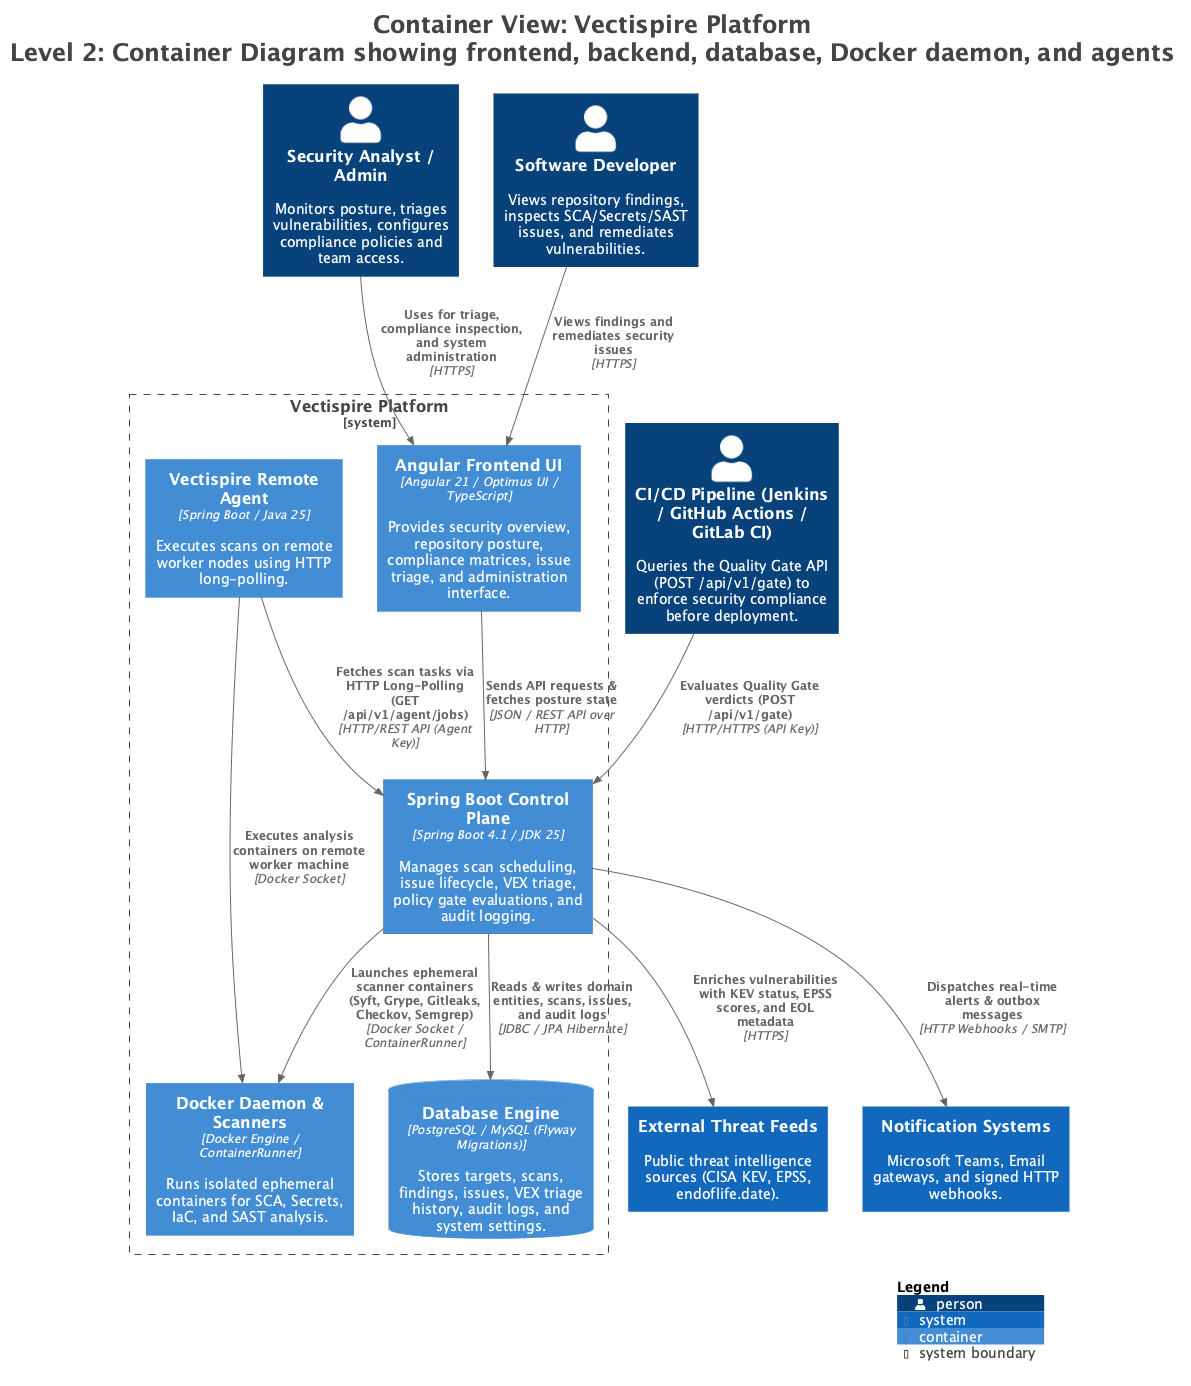
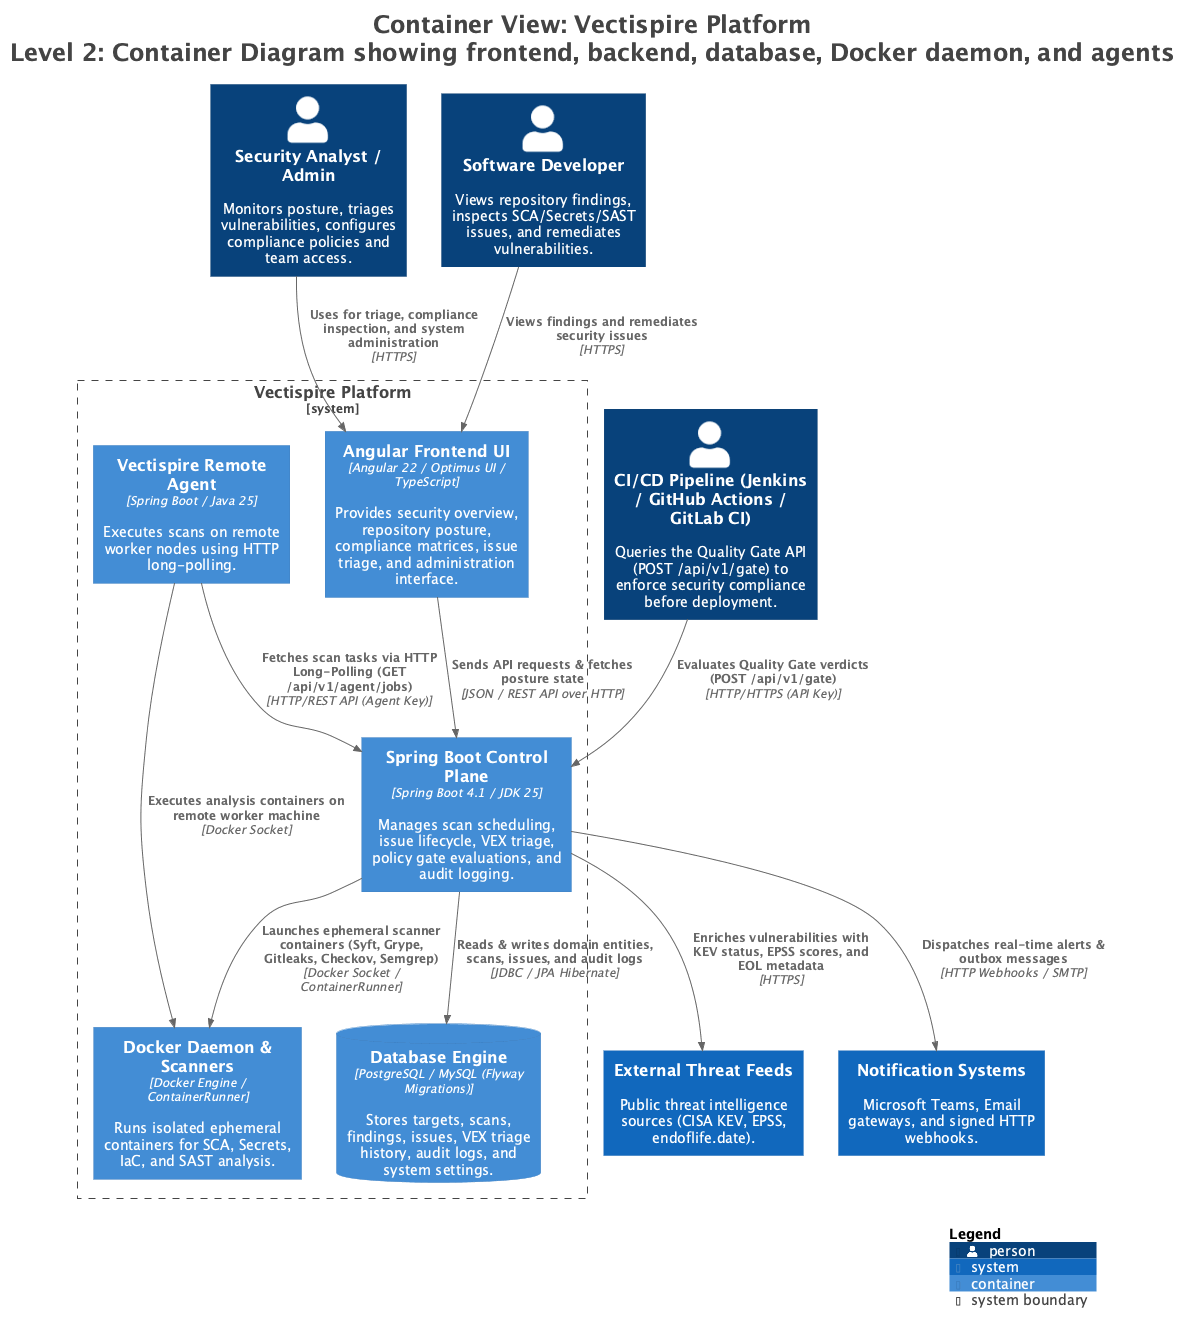
docs: the front end is on Angular 22, TypeScript 6.0 and Optimus UI 2
Every "Angular 21" outside docs/analysis/ (dated audits, which describe
what was true when they were written), in both languages: AGENTS.md,
README.fr.md, PROMPT_AUDIT.md, the architecture views, the C4 model,
GETTING_STARTED.fr, the security review and the technical documentation.
The C4 diagrams were regenerated from the model; only the Containers view
carries the version, so the other two PNGs, which differed only by
renderer build, were left as they were.

vectispire-angular/README.md now says why the versions are what they
are: Optimus 2 and Angular 22 move as one, TypeScript is pinned to a
minor because Angular accepts exactly one, the openapi-typescript
override, the Eager pins, primeicons 8.0.1's licence read and refused,
and the new icon check.

dependabot.yml keeps refusing majors of Angular, TypeScript, vitest and
jsdom; its comment no longer presents Angular 22 as the pending move. It
now also holds TypeScript minors: Angular 22 accepts `>=6.0 <6.1`, so a
TypeScript 6.1 pull request could not build, which is the shape of the
TypeScript 7 one that failed.

Changed region(s): [[0.0, 0.0, 0.995, 0.8926], [0.7462, 0.9234, 0.9328, 0.985]]

diff --git a/PROMPT_AUDIT.md b/PROMPT_AUDIT.md
@@ -33,7 +33,7 @@ Effectue une analyse et un audit complet et approfondi du projet Vectispire en e
    - Portabilité et migration multi-SGBD Flyway sur 2 moteurs réels (PostgreSQL, MySQL (SQLite for tests)) avec validation de schéma stricte (ddl-auto: validate).
    - Moteur d'ingestion et déduplication multi-scanners avec IssueFingerprint. **Vérifier qu'un vecteur littéral est épinglé** : les propriétés relationnelles (déterminisme, version exclue, cibles séparées) survivent toutes à un réordonnancement des champs, qui change pourtant chaque empreinte du parc et perd tout le triage en silence. Établi le 26 août 2026 en permutant deux champs : aucun test n'a échoué.
    - Coût des lectures : chercher les points d'entrée HTTP qui chargent une table entière ou requêtent par élément (N+1). Mesurer avec les compteurs Hibernate (getEntityLoadCount, getQueryExecutionCount) plutôt que raisonner ; sept points d'entrée chargeaient t_finding en entier avant qu'on les compte.
-   - Frontend Angular 21 et couverture de tests end-to-end Playwright (vectispire-angular/e2e/).
+   - Frontend Angular 22 et couverture de tests end-to-end Playwright (vectispire-angular/e2e/).
 
 4. 📋 Conformité Réglementaire & Standards :
    - Conformité réglementaire : **un évaluateur de posture, six cartographies** — et la distinction est le fait à vérifier. ComplianceEngine commute sur sept catégories de contrôle (VULNERABILITY_MANAGEMENT, SUPPLY_CHAIN, SECRETS_MANAGEMENT, SECURE_CODING, INFRASTRUCTURE_AS_CODE, GOVERNANCE, AUDIT_AND_LOGGING) et projette ce verdict sur six référentiels : NIS_2, ISO_27001, EU_CRA, DORA, PCI_DSS, SOC_2 — soit 24 contrôles, dont deux partageant une catégorie reçoivent le même résultat. C'est ce qu'est une cartographie ; parler de « six moteurs » surévend autant que d'en annoncer quatre en sous-évend. L'OWASP Top 10 vit dans son propre contrôleur. Vérifier aussi cappedByPlatform : un contrôle ne doit jamais être déclaré conforme sur la foi d'un mécanisme éteint.
@@ -87,7 +87,7 @@ Perform a comprehensive, in-depth evaluation and security audit of the Vectispir
    - Multi-engine Flyway migrations verified on 2 databases (PostgreSQL, MySQL (SQLite for tests)) with strict validation (ddl-auto: validate).
    - Multi-scanner ingestion and deduplication via IssueFingerprint. **Check that a literal vector is pinned**: the relational properties (determinism, version excluded, targets separate) all survive a reordering of the fields, which nonetheless changes every fingerprint in the estate and loses all triage in silence. Established on 26 August 2026 by swapping two fields: no test failed.
    - Cost of reads: hunt for HTTP endpoints that load a whole table or query per item (N+1). Measure with the Hibernate counters (getEntityLoadCount, getQueryExecutionCount) rather than reasoning; seven endpoints were reading all of t_finding before anyone counted.
-   - Frontend Angular 21 and automated Playwright E2E test suites (vectispire-angular/e2e/).
+   - Frontend Angular 22 and automated Playwright E2E test suites (vectispire-angular/e2e/).
 
 4. 📋 Regulatory & Standards Compliance:
    - Regulatory compliance: **one posture evaluator, six mappings** — and the distinction is the fact to check. ComplianceEngine switches on seven control categories (VULNERABILITY_MANAGEMENT, SUPPLY_CHAIN, SECRETS_MANAGEMENT, SECURE_CODING, INFRASTRUCTURE_AS_CODE, GOVERNANCE, AUDIT_AND_LOGGING) and projects that verdict onto six frameworks: NIS_2, ISO_27001, EU_CRA, DORA, PCI_DSS, SOC_2 — 24 controls, of which any two sharing a category receive the same result. That is what a mapping is; calling it "six engines" oversells exactly as much as announcing four undersells. The OWASP Top 10 lives in its own controller. Check cappedByPlatform too: a control must never be reported compliant on the strength of a mechanism that is switched off.

diff --git a/vectispire-angular/README.md b/vectispire-angular/README.md
@@ -16,13 +16,26 @@ proxy. They only have to agree.
 
 ## The stack, and why
 
-**Angular 21.** Required by Optimus UI, whose peer dependencies are on `^21.0.0`.
+**Angular 22.** Required by Optimus UI 2, whose peer dependencies are on `^22.1.4`. The
+two move together: Optimus 1 declared Angular `^21`, and installing one major without the
+other leaves a second copy of `@angular/core` in the lockfile, which does not build.
+
+**TypeScript 6.0, not 7.** Angular 22 accepts `>=6.0 <6.1` and nothing else, so the range
+is `~6.0.x` and a TypeScript minor is as much a framework decision as a major. The root
+`package.json` carries an `overrides` entry for `openapi-typescript`, whose peer still says
+`^5.x`: without it npm hoists a TypeScript 5 to the root, and ESLint type-checks with a
+different compiler than the build.
+
+**Every component declares `ChangeDetectionStrategy.Eager`.** Angular 22 made OnPush the
+default; `ng update` pinned the existing components to the old behaviour rather than change
+it underneath them, and `eslint.config.js` says why the rule that would flag the pin is off.
+A new component should not copy the pin.
 
 **Optimus UI** (`@openng/optimus-ui`) rather than PrimeNG. PrimeTek archived the PrimeNG
 repository and moved v22 to a commercial license; Optimus is the community fork of v21,
-the last MIT release. The import subpaths are identical (`@openng/optimus-ui/table`
-where you would have written `primeng/table`), which makes the PrimeNG v21 documentation
-directly usable.
+the last MIT release, and its 2.x line is that fork on Angular 22. The import subpaths are
+identical (`@openng/optimus-ui/table` where you would have written `primeng/table`), which
+makes the PrimeNG v21 documentation directly usable.
 
 Two renames to know about, inherited from that fork:
 
@@ -45,7 +58,9 @@ Two things to know if you pull the template from source:
 
 **`primeicons` is pinned to `7.0.0`**, exactly. 8.0.0 followed PrimeNG under a
 proprietary license — which is precisely what moving to Optimus was meant to avoid. The
-constraint is a disguised `=`: do not loosen it without reading the license.
+constraint is a disguised `=`: do not loosen it without reading the license. It was read
+again for 8.0.1 during the Angular 22 move: the PrimeUI license, free only below a
+revenue and headcount threshold, with a license key and a ban on redistribution. Still no.
 
 ## Asset checking
 
@@ -67,6 +82,13 @@ would have shown a missing image forever. Only asset positions are examined: `sr
 `placeholder` is an example shown to the user, and an `<a href>` to an advisory is a
 navigation the CSP does not govern — refusing all of those would make this the rule someone
 switches off.
+
+**Every `pi-*` class must exist in the installed `primeicons.css`.** Same failure, different
+asset: an unknown icon class renders an empty box and reports nothing. `pi-balance-scale`,
+`pi-file-code`, `pi-gitlab` and `pi-terminal` exist in no primeicons release and had been
+blank on seven screens; they became `pi-building-columns`, `pi-file`, `pi-share-alt` and
+`pi-code`. The known set is read from the stylesheet, so an upgrade that drops an icon fails
+here too.
 
 ## Critical CSS inlining is off, and that is a security setting
 

diff --git a/AGENTS.md b/AGENTS.md
@@ -1,7 +1,7 @@
 # Agents
 
 Vectispire is a **Spring Boot 4 / JDK 25** control plane in [`vectispire-java/`](vectispire-java/) with an
-**Angular 21** interface in [`vectispire-angular/`](vectispire-angular/). They talk over HTTP and are
+**Angular 22** interface in [`vectispire-angular/`](vectispire-angular/). They talk over HTTP and are
 built by different toolchains: Gradle for the backend, npm for the frontend.
 
 Read [`vectispire-java/README.md`](vectispire-java/README.md) before working there. It carries the
@@ -13,7 +13,7 @@ rather than reproduced.
 | | |
 |---|---|
 | Backend | Spring Boot 4.1, JDK 25, Gradle, `vectispire-java/` — see [`vectispire-java/README.md`](vectispire-java/README.md) |
-| Frontend | Angular 21, Optimus UI, `vectispire-angular/` — see [`vectispire-angular/README.md`](vectispire-angular/README.md) |
+| Frontend | Angular 22, TypeScript 6.0, Optimus UI 2, `vectispire-angular/` — see [`vectispire-angular/README.md`](vectispire-angular/README.md) |
 | Database | MySQL (default), PostgreSQL — Flyway migrations (`db/migration/{vendor}`). SQLite is the test fixture, not a deployment ([0014](docs/architecture/en/decisions/0014-two-engines-and-a-test-fixture.md)) |
 | Node | pinned by `.nvmrc` to LTS 24; Angular refuses Node 25 |
 
@@ -31,7 +31,8 @@ npm test
 `docs.yml`, which builds the user guide on `develop` and pull requests and publishes it to
 GitHub Pages from `main`. [`.github/dependabot.yml`](.github/dependabot.yml) proposes weekly,
 grouped updates as pull requests against `develop` — never MkDocs 2, never Node 25, and no major of
-Angular, TypeScript, vitest or jsdom, which move together through `ng update`. Playwright comes in
+Angular, TypeScript, vitest or jsdom, which move together through `ng update` — nor a TypeScript
+minor, since Angular supports exactly one at a time. Playwright comes in
 a pull request of its own: the e2e image pinned in `ci.yml` and `nightly.yml` has to move with it. It is a
 rewrite of the GitLab pipeline rather than a translation, because the Docker-in-Docker
 workarounds invert when the daemon shares the runner's filesystem: `docker run -v "$PWD:…"`

diff --git a/docs/fr/TECHNICAL_DOCUMENTATION.fr.md b/docs/fr/TECHNICAL_DOCUMENTATION.fr.md
@@ -401,10 +401,10 @@ de base générique. Un service n'écrit aucun SQL, et un repository ne porte au
 
 ## 6. Le frontal
 
-Angular 21 avec [Optimus UI](https://github.com/openng/optimus-ui), le fork communautaire de
-PrimeNG v21 — PrimeTek a archivé PrimeNG et fait passer la v22 sous licence commerciale. La coque
-vient du gabarit Sakai (MIT). `primeicons` est épinglé exactement à `7.0.0` : la 8.0.0 a suivi
-PrimeNG sous licence propriétaire, ce que le passage à Optimus visait précisément à éviter. Voir
+Angular 22 et TypeScript 6.0 avec [Optimus UI](https://github.com/openng/optimus-ui) 2, le fork
+communautaire de PrimeNG v21 — PrimeTek a archivé PrimeNG et fait passer la v22 sous licence
+commerciale ; Optimus 2 est ce fork porté sur Angular 22. La coque vient du gabarit Sakai (MIT).
+`primeicons` est épinglé exactement à `7.0.0` : la 8.x a suivi PrimeNG sous licence propriétaire, ce que le passage à Optimus visait précisément à éviter. Voir
 [`vectispire-angular/README.md`](../../vectispire-angular/README.md).
 
 Les modèles de vue que le navigateur reçoit sont typés et calculés côté serveur
@@ -419,6 +419,10 @@ dans `index.html` et `styles.scss` et vérifie que les polices déclarées exist
 `woff2`. Pas du zèle : la CSP refuse les feuilles de style tierces, et une telle référence ne casse
 rien de visible — la requête est bloquée, la page se rabat sur la police système, et rien ne le
 signale. C'est exactement ainsi qu'une typographie n'a jamais atteint la production.
+
+Le même script échoue sur toute classe d'icône `pi-*` que le `primeicons.css` installé ne définit
+pas : une classe inconnue affiche une case vide sans rien signaler non plus, et quatre étaient
+livrées vides de cette façon.
 
 ## 7. Approche des tests
 

diff --git a/docs/en/TECHNICAL_DOCUMENTATION.md b/docs/en/TECHNICAL_DOCUMENTATION.md
@@ -395,11 +395,11 @@ A service writes no SQL, and a repository holds no business rule;
 
 ## 6. The front end
 
-Angular 21 with [Optimus UI](https://github.com/openng/optimus-ui), the community fork of
-PrimeNG v21 — PrimeTek archived PrimeNG and moved v22 to a commercial license. The shell
-comes from the Sakai template (MIT). `primeicons` is pinned to exactly `7.0.0`: 8.0.0
-followed PrimeNG under a proprietary license, which is what moving to Optimus was meant to
-avoid. See [`vectispire-angular/README.md`](../../vectispire-angular/README.md).
+Angular 22 and TypeScript 6.0 with [Optimus UI](https://github.com/openng/optimus-ui) 2, the
+community fork of PrimeNG v21 — PrimeTek archived PrimeNG and moved v22 to a commercial
+license; Optimus 2 is that fork carried to Angular 22. The shell comes from the Sakai template
+(MIT). `primeicons` is pinned to exactly `7.0.0`: 8.x followed PrimeNG under a proprietary
+license, which is what moving to Optimus was meant to avoid. See [`vectispire-angular/README.md`](../../vectispire-angular/README.md).
 
 The view models the browser receives are typed and computed server-side
 ([`core/api.models.ts`](../../vectispire-angular/src/app/core/api.models.ts)): finished values, not
@@ -414,6 +414,10 @@ and are real `woff2`. Not zeal: the CSP refuses third-party stylesheets, and suc
 reference breaks nothing visible — the request is blocked, the page falls back to the system
 font, and nothing reports it. That is exactly how a typography never
 reached production.
+
+The same script fails on any `pi-*` icon class the installed `primeicons.css` does not define:
+an unknown class renders an empty box and reports nothing either, and four had been shipped
+blank that way.
 
 ## 7. Testing approach
 

diff --git a/docs/fr/SECURITY_AND_QUALITY_REVIEW.fr.md b/docs/fr/SECURITY_AND_QUALITY_REVIEW.fr.md
@@ -1,7 +1,7 @@
 # Rapport d'Audit & Revue d'Architecture, Qualité et Sécurité
 
 **Projet** : Vectispire  
-**Périmètre** : Backend (Spring Boot 4.1 / JDK 25), Frontend (Angular 21 / Optimus UI), Moteurs de Base de Données, Conteneurs d'Analyse, Chaîne de Déploiement (CI/CD / Supply Chain), Moteur de Conformité & Coffre-Fort de Preuves.  
+**Périmètre** : Backend (Spring Boot 4.1 / JDK 25), Frontend (Angular 22 / Optimus UI), Moteurs de Base de Données, Conteneurs d'Analyse, Chaîne de Déploiement (CI/CD / Supply Chain), Moteur de Conformité & Coffre-Fort de Preuves.  
 **Auteur** : Architecte Sécurité, Java & Angular  
 **Date** : Août 2026  
 
@@ -46,7 +46,7 @@ flowchart TB
         AGENT_RUN["vectispire-agent (Sans JDBC/Hibernate, Long Polling API)"]
     end
 
-    subgraph Front["Frontend (Angular 21)"]
+    subgraph Front["Frontend (Angular 22)"]
         UI["Optimus UI / Signals / In-Memory Session<br/>Strict CSP: script-src 'self' (No unsafe-eval)"]
     end
 
@@ -96,7 +96,7 @@ flowchart TB
 
 ---
 
-## 3. Architecture & Sécurité Frontend (Angular 21)
+## 3. Architecture & Sécurité Frontend (Angular 22)
 
 ### 3.1. Gestion des Sessions & Atténuation XSS (`SessionStore`)
 - **Stockage en Mémoire (Angular Signals)** : Le Bearer Token est maintenu dans un signal en mémoire vive et **jamais dans `localStorage` ni `sessionStorage`**.

diff --git a/docs/en/SECURITY_AND_QUALITY_REVIEW.md b/docs/en/SECURITY_AND_QUALITY_REVIEW.md
@@ -1,7 +1,7 @@
 # Architecture, Quality & Security Audit Review
 
 **Project**: Vectispire  
-**Scope**: Backend (Spring Boot 4.1 / JDK 25), Frontend (Angular 21 / Optimus UI), Database Engines, Container Sandboxing, CI/CD Supply Chain, Compliance Engine & Certified Evidence Vault.  
+**Scope**: Backend (Spring Boot 4.1 / JDK 25), Frontend (Angular 22 / Optimus UI), Database Engines, Container Sandboxing, CI/CD Supply Chain, Compliance Engine & Certified Evidence Vault.  
 **Author**: Security & Software Architect  
 **Date**: August 2026  
 
@@ -46,7 +46,7 @@ flowchart TB
         AGENT_RUN["vectispire-agent (No JDBC/Hibernate, Long Polling API)"]
     end
 
-    subgraph Front["Frontend (Angular 21)"]
+    subgraph Front["Frontend (Angular 22)"]
         UI["Optimus UI / Signals / In-Memory Session<br/>Strict CSP: script-src 'self' (No unsafe-eval)"]
     end
 
@@ -96,7 +96,7 @@ flowchart TB
 
 ---
 
-## 3. Frontend Architecture & Security (Angular 21)
+## 3. Frontend Architecture & Security (Angular 22)
 
 ### 3.1. Session Management & In-Memory Token Handling (`SessionStore`)
 - **In-Memory Signal Storage**: Authentication bearer tokens reside solely in Angular memory signals and are **never stored in `localStorage` or `sessionStorage`**.

diff --git a/docs/architecture/bflorat/en/01_application_view.md b/docs/architecture/bflorat/en/01_application_view.md
@@ -38,7 +38,7 @@ and track issues from scan to scan in a **reconciled backlog**.
 ```mermaid
 flowchart TB
     subgraph Frontend["User Interface (vectispire-angular)"]
-        UI["Angular 21 SPA / Optimus UI<br/>(Dashboard, Posture, Matrix, Gate)"]
+        UI["Angular 22 SPA / Optimus UI<br/>(Dashboard, Posture, Matrix, Gate)"]
     end
 
     subgraph Backend["Control Plane Backend (vectispire-java)"]
@@ -72,7 +72,7 @@ flowchart TB
   `ScanArtifacts`), fingerprinting algorithms (`IssueFingerprint`), and the `ScanRunner` engine.
 - **`vectispire-agent`**: Lightweight standalone remote agent communicating strictly via HTTP
   Long-Polling.
-- **`vectispire-angular`**: Single Page Application frontend built with Angular 21 and Optimus UI.
+- **`vectispire-angular`**: Single Page Application frontend built with Angular 22 and Optimus UI.
 
 ---
 

diff --git a/docs/architecture/bflorat/fr/01_vue_applicative.md b/docs/architecture/bflorat/fr/01_vue_applicative.md
@@ -40,7 +40,7 @@ de conformité. Son rôle est de surveiller de manière continue la sécurité a
 ```mermaid
 flowchart TB
     subgraph Frontend["Interface Utilisateur (vectispire-angular)"]
-        UI["Angular 21 SPA / Optimus UI<br/>(Dashboard, Posture, Matrix, Gate)"]
+        UI["Angular 22 SPA / Optimus UI<br/>(Dashboard, Posture, Matrix, Gate)"]
     end
 
     subgraph Backend["Plan de Contrôle Backend (vectispire-java)"]
@@ -75,7 +75,7 @@ flowchart TB
   `ScanRunner`.
 - **`vectispire-agent`** : Agent distant autonome léger communiquant exclusivement via HTTP
   Long-Polling.
-- **`vectispire-angular`** : Frontend Single Page Application développé en Angular 21 et Optimus UI.
+- **`vectispire-angular`** : Frontend Single Page Application développé en Angular 22 et Optimus UI.
 
 ---
 

diff --git a/docs/architecture/bflorat/fr/05_vue_developpement.md b/docs/architecture/bflorat/fr/05_vue_developpement.md
@@ -11,7 +11,7 @@
 | Composant | Technologie & Version | Outil de Build & Gestionnaire |
 |---|---|---|
 | **Backend Control Plane** | JDK 25 / Spring Boot 4.1 | Gradle (Kotlin DSL `build.gradle.kts`) |
-| **Frontend Interface** | Node LTS 24 / Angular 21 | npm Workspaces (`package.json` pinned `.nvmrc`) |
+| **Frontend Interface** | Node LTS 24 / Angular 22 / TypeScript 6.0 | npm Workspaces (`package.json` pinned `.nvmrc`) |
 | **Composants UI** | Optimus UI / Vanilla CSS | Tailwind CSS (Strict confirmations) |
 | **Tests d'Architecture** | ArchUnit 1.3 | Gradle `:vectispire-core:test` |
 | **Tests d'Intégration** | Testcontainers — PostgreSQL, MySQL, fixture SQLite | `./gradlew integrationTestAll` |

diff --git a/docs/architecture/bflorat/en/05_development_view.md b/docs/architecture/bflorat/en/05_development_view.md
@@ -11,7 +11,7 @@
 | Component | Technology & Version | Build Tool & Package Manager |
 |---|---|---|
 | **Backend Control Plane** | JDK 25 / Spring Boot 4.1 | Gradle (Kotlin DSL `build.gradle.kts`) |
-| **Frontend Interface** | Node LTS 24 / Angular 21 | npm Workspaces (`package.json` pinned `.nvmrc`) |
+| **Frontend Interface** | Node LTS 24 / Angular 22 / TypeScript 6.0 | npm Workspaces (`package.json` pinned `.nvmrc`) |
 | **UI Components** | Optimus UI / Vanilla CSS | Tailwind CSS (Strict confirmations) |
 | **Architecture Tests** | ArchUnit 1.3 | Gradle `:vectispire-core:test` |
 | **Integration Testing** | Testcontainers — PostgreSQL, MySQL, SQLite fixture | `./gradlew integrationTestAll` |

diff --git a/docs/fr/GETTING_STARTED.fr.md b/docs/fr/GETTING_STARTED.fr.md
@@ -7,7 +7,7 @@ Ce guide décrit l'installation, la configuration et le lancement de Vectispire 
 ## 1. Prérequis
 
 - **Java** : JDK 25 (ou compatible JDK 21+ avec Gradle).
-- **Node.js** : Node LTS 24 (Angular 21 refuse Node 25).
+- **Node.js** : Node LTS 24 (Angular 22 refuse Node 25).
 - **Docker** : Nécessaire pour l'exécution des conteneurs d'analyse (Syft, Grype, Semgrep, Gitleaks).
 - **Base de données** : MySQL (défaut) ou PostgreSQL. SQLite est la fixture des tests et ne démarre pas l'application packagée — voir la [décision 0014](../architecture/fr/decisions/0014-two-engines-and-a-test-fixture.md).
 
